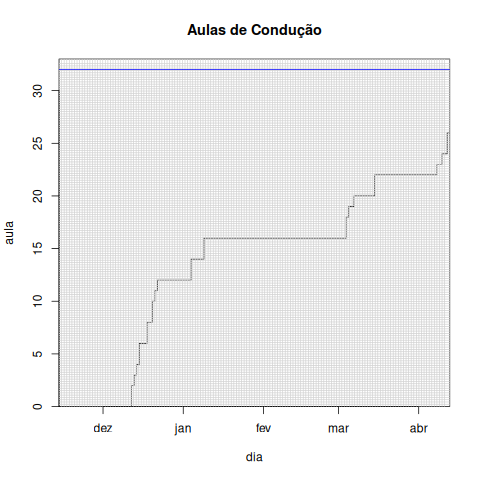
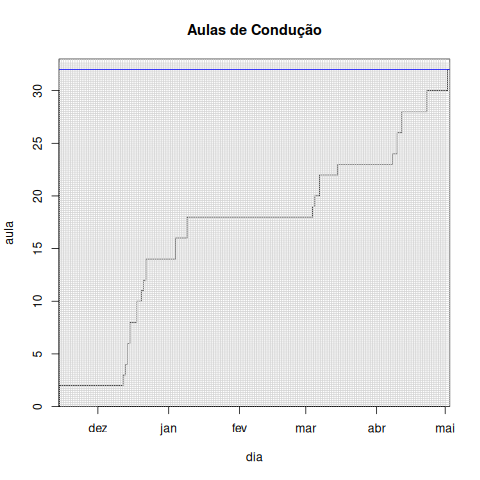
Update All driving lessons hopefully until the end

Changed region(s): [[0.125, 0.125, 0.9688, 0.9062], [0.6875, 0.875, 0.8125, 0.9062], [0.4688, 0.875, 0.5625, 0.9062]]

diff --git a/README.md b/README.md
@@ -5,7 +5,7 @@
 
 ## Código
 
-<table id="orgd90123b" border="2" cellspacing="0" cellpadding="6" rules="groups" frame="hsides">
+<table id="org08a8905" border="2" cellspacing="0" cellpadding="6" rules="groups" frame="hsides">
 
 
 <colgroup>
@@ -163,7 +163,7 @@
     plot(
       dados$Ni,x=as.Date(dados$dia),
       xaxs="i", yaxs="i",
-      type="s", ylim=c(0, limite + 1),
+      type="S", ylim=c(0, limite + 1),
       xlab="dia", ylab="aula", main="Aulas de Código"
     )
     grid(nx = as.numeric(difftime(max(dados$dia), min(dados$dia), unit = "days")) + 1, lty=1, lwd=1)
@@ -174,7 +174,7 @@
 
 ## Condução
 
-<table id="orgc8ad696" border="2" cellspacing="0" cellpadding="6" rules="groups" frame="hsides">
+<table id="org07506fb" border="2" cellspacing="0" cellpadding="6" rules="groups" frame="hsides">
 
 
 <colgroup>
@@ -299,8 +299,20 @@
 
 
 <tr>
-<td class="org-right">2024-04-13</td>
-<td class="org-right">0</td>
+<td class="org-right">2024-04-23</td>
+<td class="org-right">2</td>
+</tr>
+
+
+<tr>
+<td class="org-right">2024-05-02</td>
+<td class="org-right">2</td>
+</tr>
+
+
+<tr>
+<td class="org-right">2024-05-03</td>
+<td class="org-right">2</td>
 </tr>
 </tbody>
 </table>
@@ -314,7 +326,7 @@
     plot(
       dados$Ni,x=as.Date(dados$dia),
       xaxs="i", yaxs="i",
-      type="s", ylim=c(0, limite + 1),
+      type="S", ylim=c(0, limite + 1),
       xlab="dia", ylab="aula", main="Aulas de Condução"
     )
     grid(nx = as.numeric(difftime(max(dados$dia), min(dados$dia), unit = "days")) + 1, lty=1, lwd=1)
